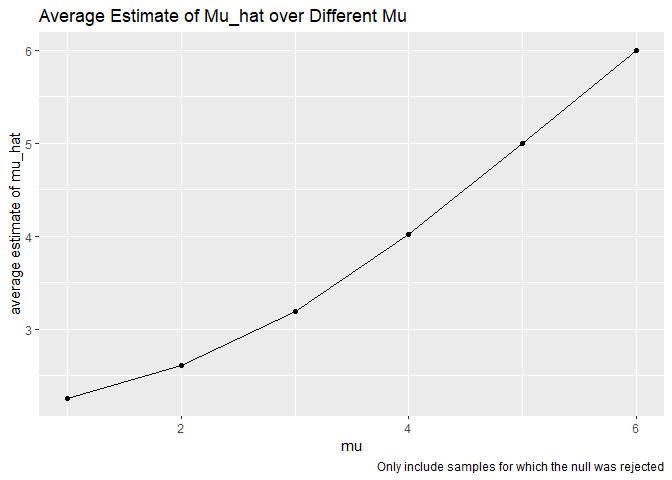
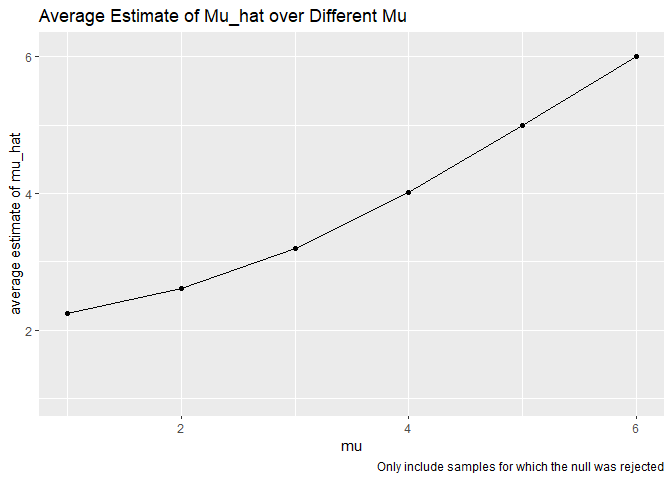
Change the scale of y axis in problem 3

diff --git a/p8105_hw5_yj2622.md b/p8105_hw5_yj2622.md
@@ -100,6 +100,8 @@ results_df %>%
 
 ## Problem 2
 
+Read in and tidy the dataset
+
 ``` r
 exp_df = tibble(
   name = list.files("./data")
@@ -289,15 +291,13 @@ sim_results %>%
     title = "Average Estimate of Mu_hat over Different Mu",
     caption = "Only include samples for which the null was rejected",
     y = "average estimate of mu_hat"
-  )
+  ) +
+  scale_y_continuous(limits = c(1,6.1,2))
 ```
 
     ## `summarise()` ungrouping output (override with `.groups` argument)
 
 ![](p8105_hw5_yj2622_files/figure-gfm/unnamed-chunk-15-1.png)<!-- -->
-
-Is the sample average of μ^ across tests for which the null is rejected
-approximately equal to the true value of μ? Why or why not?
 
 According to these two plots, we can find that:
 
@@ -305,4 +305,10 @@ According to these two plots, we can find that:
     to true μ;
 
   - While the sample average of μ\_hat across tests for which the null
-    is rejected doesn’t approximately equal to the true μ.
+    is rejected doesn’t all approximately equal to the true μ. As the
+    true μ increases, the sample average of μ\_hat get more closer to
+    the true one. While for samples with lower true μ, the average of
+    μ\_hat is larger than the true one. I think that’s because as the
+    true μ increases, the statistics power increase so it’s easier to
+    reject the null. While for samples with lower true μ, the null is
+    rejected only when the μ\_hat is larger than the true μ.
